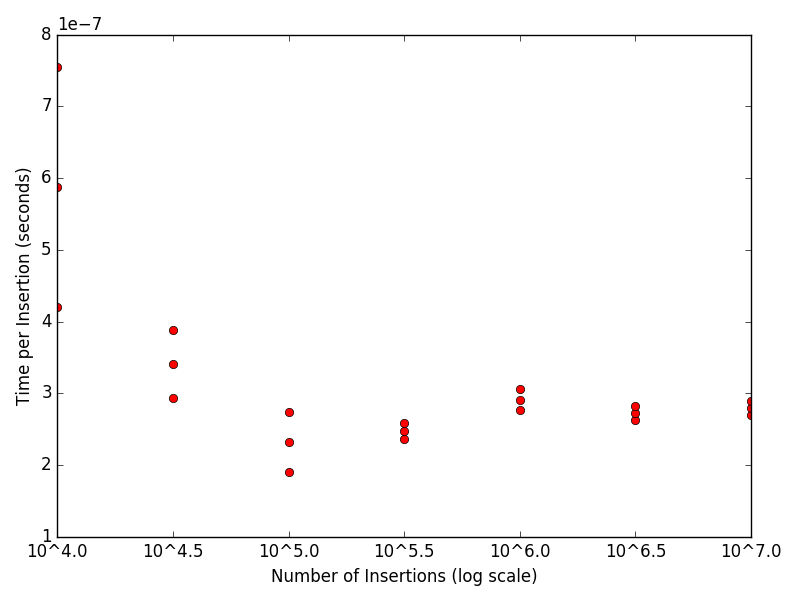
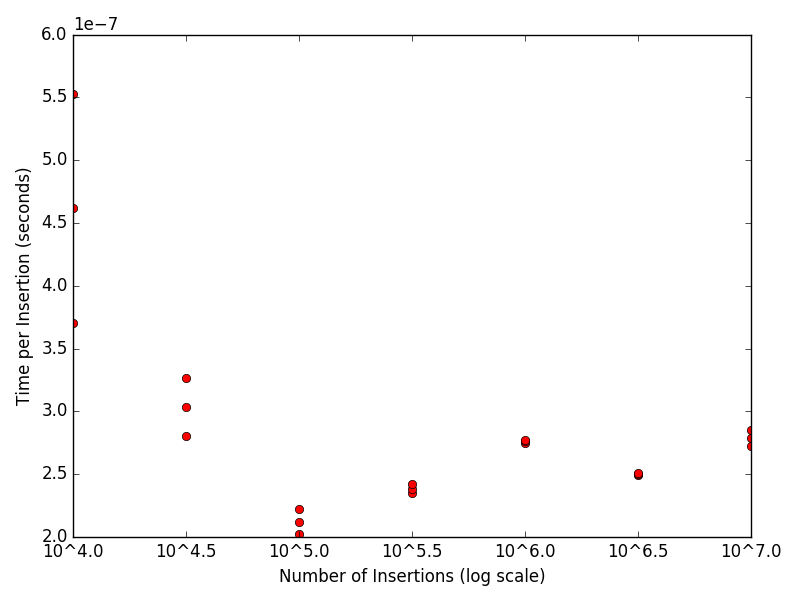
Fixed rust numbers by building with --release

diff --git a/driver.py b/driver.py
@@ -77,7 +77,7 @@ def main():
         'java': ['java', 'java_hashmap/Main', '$SIZE'],
         'python': ['python', 'py/main.py', '$SIZE'],
         'go': ['go/main', '$SIZE'],
-        'rust': ['rust/target/debug/rust', '$SIZE'],
+        'rust': ['rust/target/release/rust', '$SIZE'],
     }
 
     for implementation, execution_list in implementations.items():
